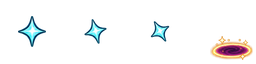
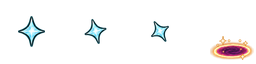
Update Little Horn to the corrected Zoe sprite sheet

diff --git a/docs/YONE.md b/docs/YONE.md
@@ -2,7 +2,7 @@
 
 Включи **Soul Fighter Samira** в Repentance+ с REPENTOGON, затем выбери **Yone** в новом одиночном забеге. Ёнэ начинает с трёх красных сердец. В личной Windows-сборке с моделью перед запуском игры открой `launch.cmd`, чтобы запустить Companion.
 
-Для автоматической установки и запуска на Windows скачай готовый `Install-Yone.cmd` из выпуска. Установщик обновит `samira_testroom` в каталоге модов, который использует REPENTOGON, и проверит обе анимации выбора. Для загрузки обновления полностью перезапусти Isaac. [Установщик Ёнэ](https://github.com/N1kromant/Soul-Fighter-Samira/releases/download/yone-immersion-v14/Install-Yone.cmd)
+Для автоматической установки и запуска на Windows скачай готовый `Install-Yone.cmd` из выпуска. Установщик обновит `samira_testroom` в каталоге модов, который использует REPENTOGON, и проверит обе анимации выбора. Для загрузки обновления полностью перезапусти Isaac. [Установщик Ёнэ](https://github.com/N1kromant/Soul-Fighter-Samira/releases/download/yone-immersion-v15/Install-Yone.cmd)
 
 На экране выбора Ёнэ показан в полный рост. Слева от QWER находятся два столбца значков и текущих статов. Слева показаны урон, темп автоатак в секунду и скорость. Справа — шанс крита, общее ускорение умений и дальность автоатак. Золотая звезда и число с процентом обозначают шанс крита автоатак и Q/Q3 с пассивкой Ёнэ и стаками Yun Tal. Название стата видно при наведении. В полноэкранном режиме используется окно без рамки. После смены размера окна Companion проверяет новую область отрисовки, а штатный спрайт остаётся видимым до подтверждения свежего кадра.
 

diff --git a/docs/COMET-LITTLE-HORN.md b/docs/COMET-LITTLE-HORN.md
@@ -1,6 +1,6 @@
 # Облик Зои для Little Horn
 
-В комнате босса Little Horn (404.0) используется присланный спрайт-лист Зои. У неё есть позы движения, каста, нырка, появления и смерти. Самонаводящийся Dark Ball (404.1) выглядит как переливающийся пузырь, а ямы босса — как светящиеся порталы. Тролль-бомбы босса и портрет перед боем тоже имеют свои текстуры. Облик действует с включённым модом для любого персонажа.
+В комнате босса Little Horn (404.0) используется присланный спрайт-лист Зои. У неё есть позы движения, каста, нырка, появления и смерти. Самонаводящийся Dark Ball (404.1) выглядит как розовая сфера, ямы босса — как светящиеся порталы, а тролль-бомбы — как фиолетовые пузыри с бабочками. Облик действует с включённым модом для любого персонажа.
 
 ## Замена графики
 
